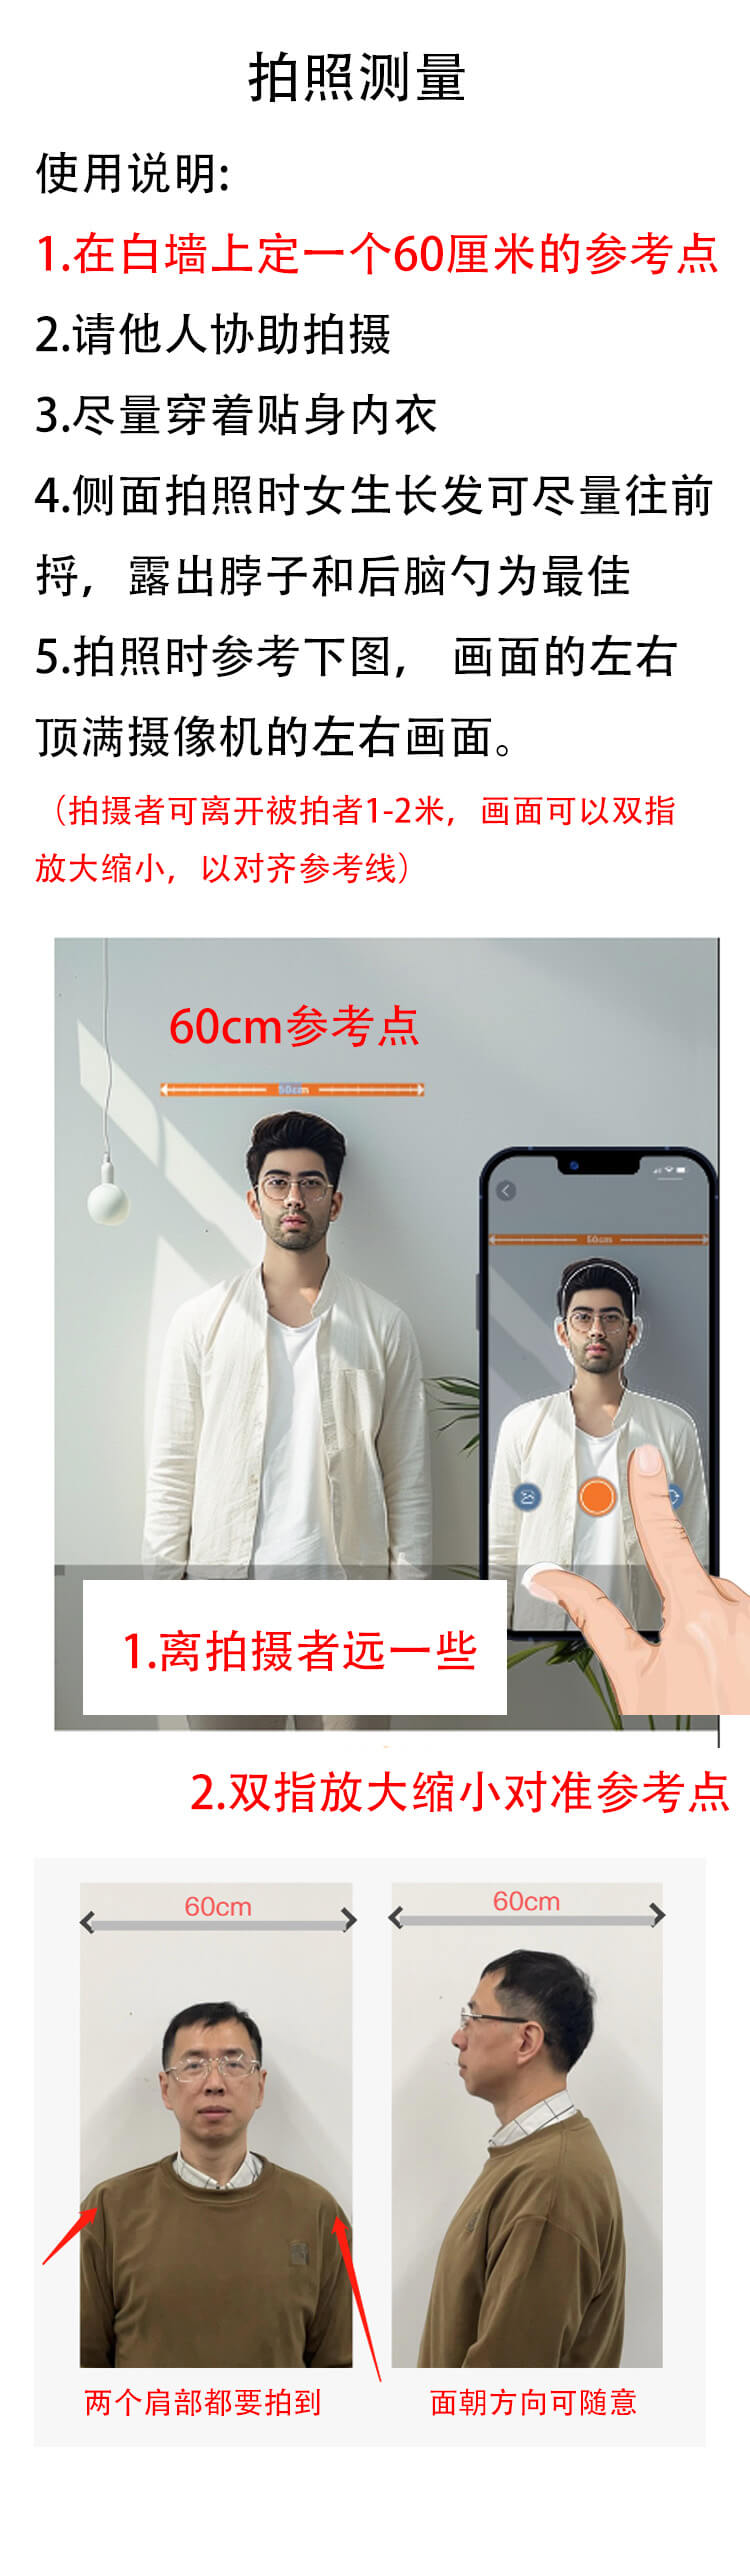
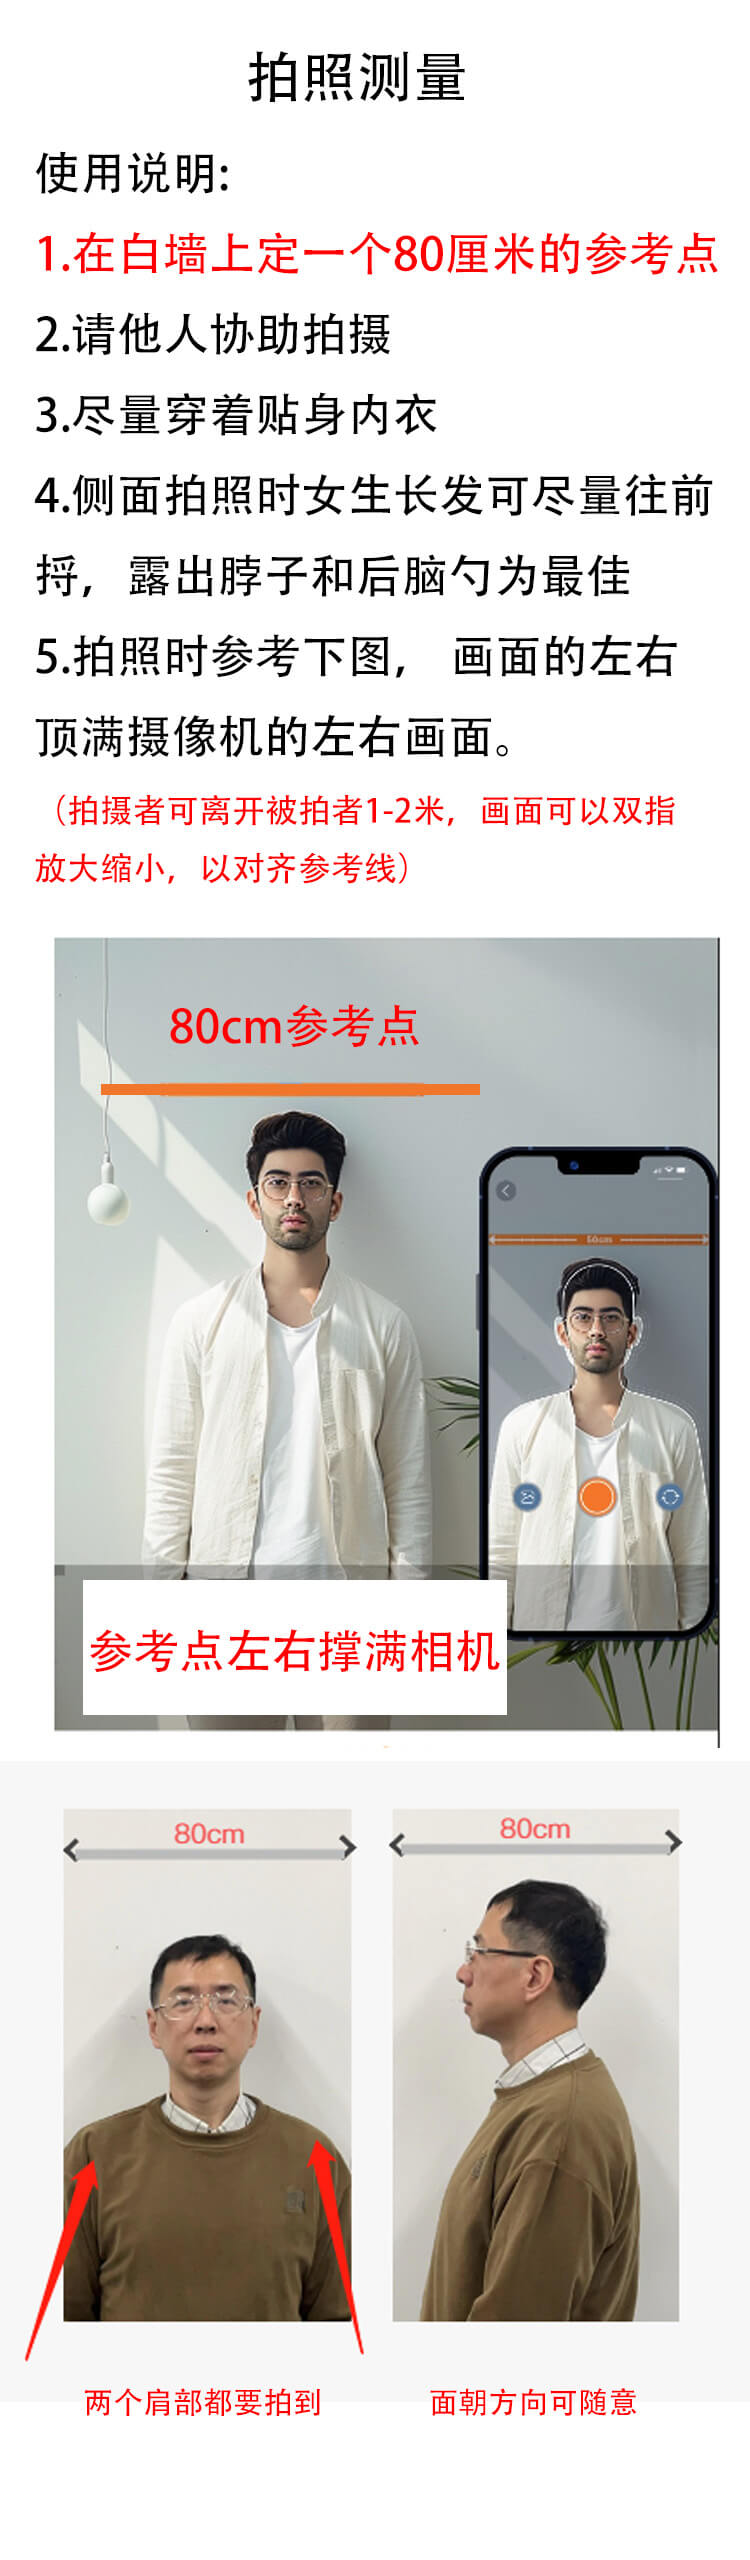
修改参照物为0.8米

diff --git a/pages/shoot/shoot.vue b/pages/shoot/shoot.vue
@@ -33,7 +33,7 @@
 		<view class="uni-common-mt">
 			<view class="uni-form-item uni-column">
 				<view class="title" style="text-align: left;padding: 20rpx;font-weight: 600;">
-					<p>正面信息（照片以0.6米宽度为参照物计算结果）:</p>
+					<p>正面信息（照片以0.8米宽度为参照物计算结果）:</p>
 				</view>
 				<block></block>
 				<view>
@@ -72,7 +72,7 @@
 		</view>
 		<view class="uni-common-mt">
 			<view class="uni-form-item uni-column">
-				<view class="title" style="text-align: left;padding: 20rpx;font-weight: 600;">侧面信息（照片以0.6米宽度为参照物计算结果）:
+				<view class="title" style="text-align: left;padding: 20rpx;font-weight: 600;">侧面信息（照片以0.8米宽度为参照物计算结果）:
 				</view>
 				<view>
 					<view class="impress"><label class="title">后背凸点与颈部凹点之间:</label><label
@@ -318,7 +318,7 @@
 									'px')
 
 
-								this.factor = width * (1 / 0.6) // 1米参参照物
+								this.factor = width * (1 / 0.8) // 1米参参照物
 								this.bodyImgOriginWidth = width;
 								this.bodyImgOriginHeight = height;
 								this.detecting(tempFilePaths, false)
@@ -362,7 +362,7 @@
 								this.$set(this.sideImageStyle, '--imgHeight', bodyImgHeight +
 									'px');
 
-								this.factor = width * (1 / 0.6) // 0.6米参参照物
+								this.factor = width * (1 / 0.8) // 参参照物宽度
 								this.bodyImgOriginWidth = width;
 								this.bodyImgOriginHeight = height;
 								this.detecting(tempFilePaths, true)
